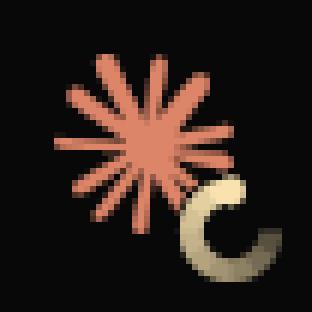
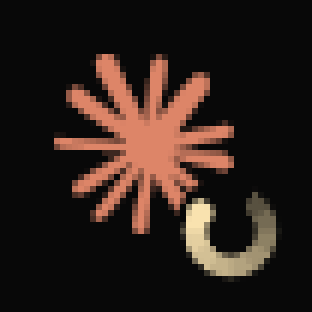
fix(ui): keep the working comet at the shared badge scale
Filling the whole disc made the working mark a size larger than the other states and left it no margin. The heavier stroke, longer tail and 24-step clock carry the visibility on their own, so every status mark is drawn at the same 90% of the badge again.

Changed region(s): [[0.5769, 0.5481, 0.9231, 0.9231]]

diff --git a/src/ui/tab_strip.rs b/src/ui/tab_strip.rs
@@ -1210,9 +1210,7 @@ impl Tty7App {
             .child(
                 gpui::svg()
                     .path(indicator.icon_path())
-                    // At nine pixels the comet's turn only reads when it
-                    // fills the disc; the still marks keep a margin.
-                    .size(px(if working { d } else { d * 0.9 }))
+                    .size(px(d * 0.9))
                     .text_color(indicator.color(surface))
                     .when(working, |icon| {
                         icon.with_transformation(gpui::Transformation::rotate(gpui::percentage(
